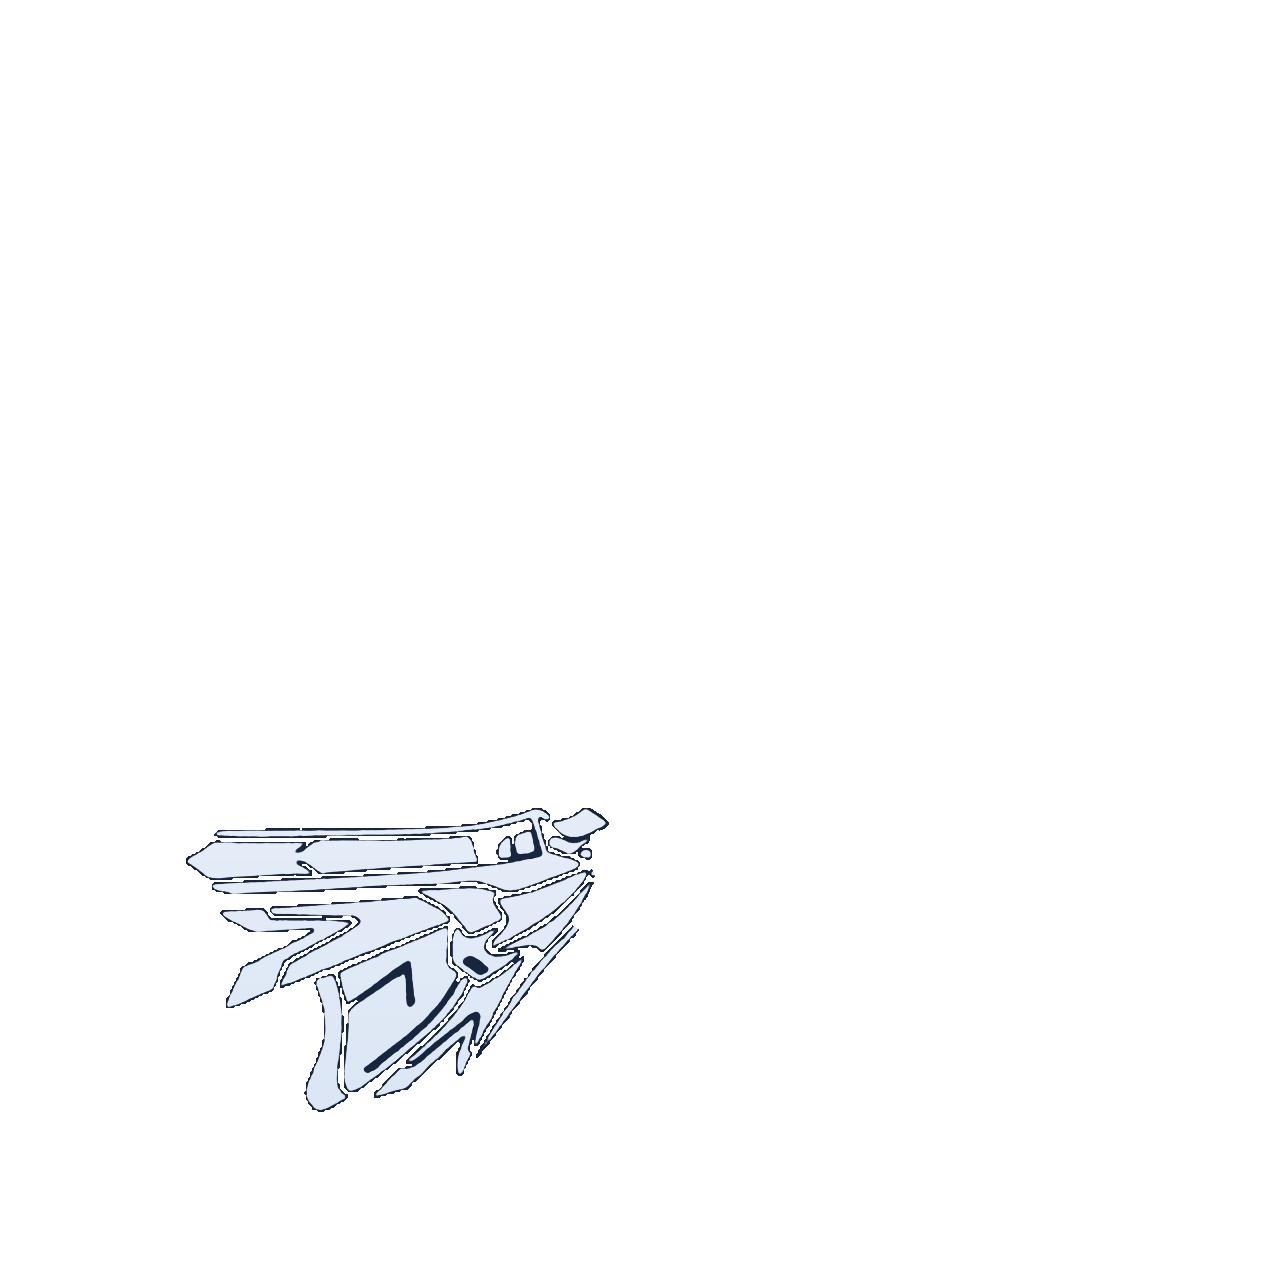
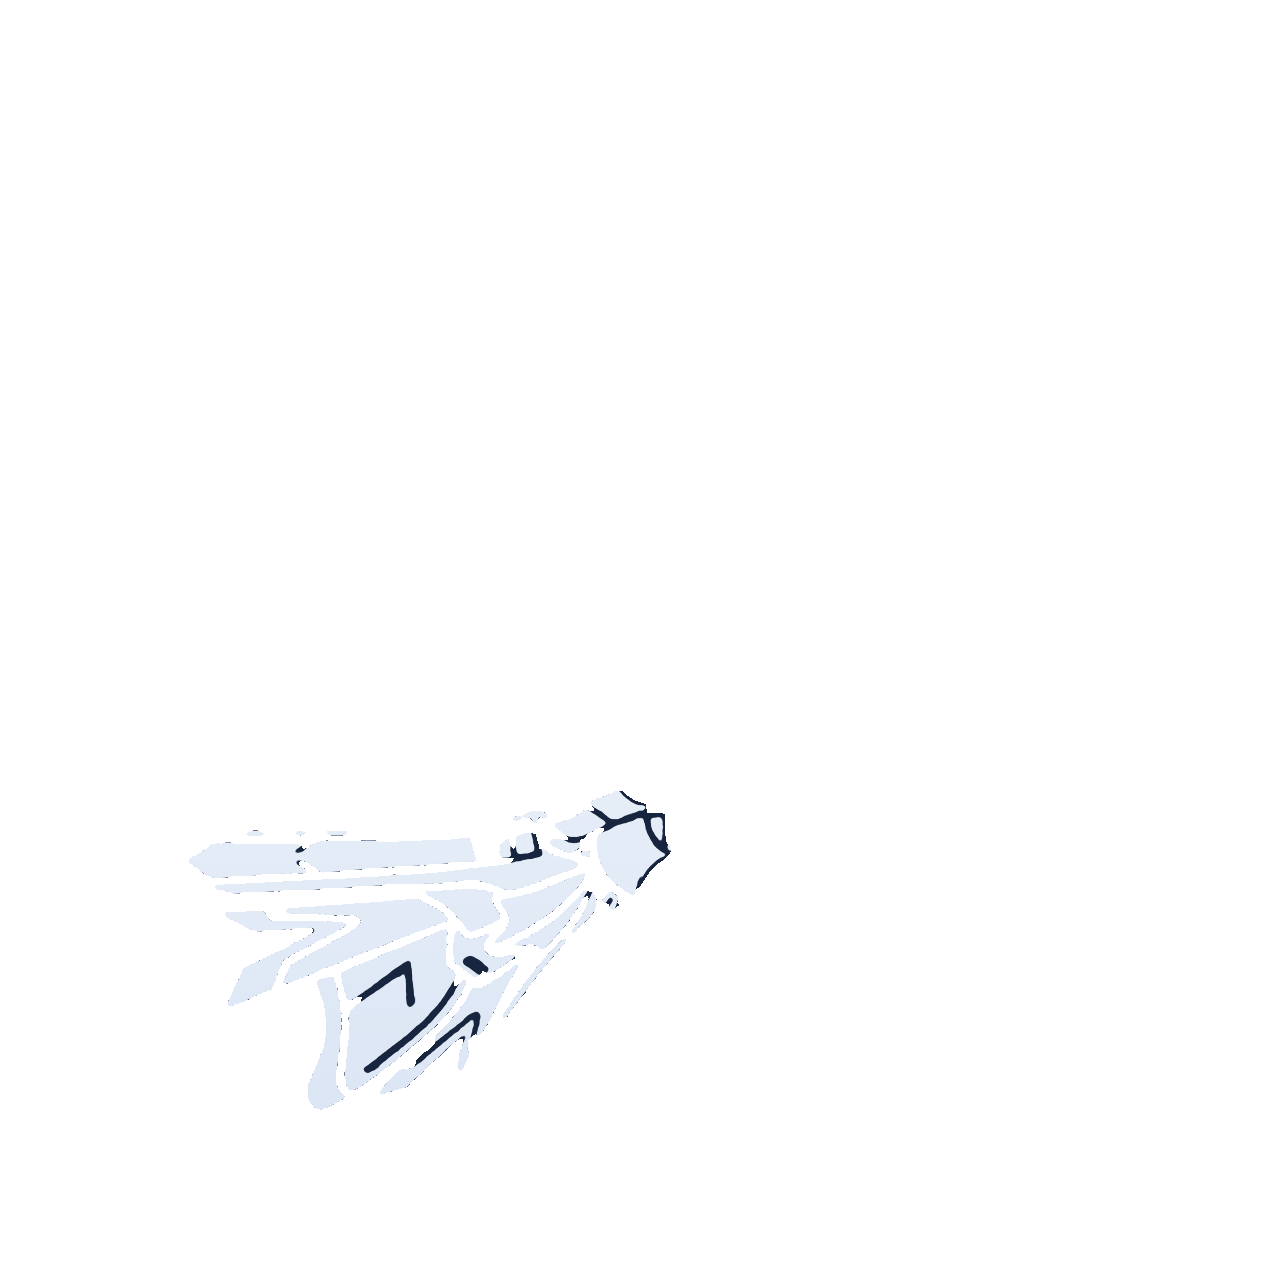
연구 페이지: 독수리 부위 재분할 + 호버 디밍 + 분야설명 자연화
- 부위 재분할(사용자 해부 지정): 머리=눈+부리+목만, 날개=깃털+아래 관절(동그란)부품 포함,
  6개 부위에 안 들어가던 조각(왼날개 깃털끝·어깨관절) 재배정 → 모든 플레이트가 6부위 중 하나에.
  재조립=원본 동일 검증. HTML 히트영역·화살표 좌표도 새 영역에 맞춤.
- 호버 시 나머지 부위 살짝 흐리게(dim-others) — 초점 집중.
- 6개 분야 desc/intro 재작성: '움직이는 모든 기계에는…' 식 거창한 도입부 제거, 실제 연구 내용 중심으로.

Changed region(s): [[0.1562, 0.5938, 0.5312, 0.875]]

diff --git a/design-candidates/assets/js/data.js b/design-candidates/assets/js/data.js
@@ -60,8 +60,8 @@ window.YSME = {
    "ko": "역학·소재",
    "en": "Mechanics & Materials",
    "count": 6,
-   "desc": "구조와 소재가 힘을 어떻게 견디고 변형하는지가 모든 기계 시스템의 안전과 성능을 좌우합니다.",
-   "intro": "구조와 소재가 힘을 어떻게 견디고 변형하는지가 모든 기계 시스템의 안전과 성능을 좌우합니다. 역학·소재 분야는 금속·복합재·연성재료의 거동을 전산 시뮬레이션과 정밀 실험으로 규명하고, 마찰과 마모(트라이볼로지), 파손, 마이크로 스케일의 응력을 함께 다룹니다. 이를 바탕으로 더 가볍고 튼튼하며 오래가는 부품과 구조를 설계합니다.",
+   "desc": "금속·복합재·연성재료가 힘을 받아 어떻게 변형하고 파손되는지 실험과 시뮬레이션으로 규명합니다.",
+   "intro": "역학·소재 분야는 금속·복합재·연성재료가 힘을 받을 때 어떻게 변형하고 파손되는지를 전산 시뮬레이션과 정밀 실험으로 규명합니다. 마찰과 마모(트라이볼로지), 파손, 마이크로 스케일의 응력까지 함께 다뤄, 더 가볍고 튼튼하며 오래가는 부품과 구조를 설계합니다.",
    "theme": "mechanics"
   },
   {
@@ -69,8 +69,8 @@ window.YSME = {
    "ko": "에너지·열유체",
    "en": "Energy / Thermal-Fluid Systems",
    "count": 7,
-   "desc": "에너지는 대부분 열과 유체의 흐름을 통해 만들어지고 전달됩니다.",
-   "intro": "에너지는 대부분 열과 유체의 흐름을 통해 만들어지고 전달됩니다. 에너지·열유체 분야는 난류와 미세유동의 물리를 전산유체역학(CFD)과 정밀 실험으로 해석하고, 연소·청정에너지, 열전달, 연료전지·수소·배터리 같은 에너지 변환 기술을 연구합니다. 자동차부터 발전, 친환경 모빌리티까지 에너지를 더 효율적으로 다루는 과제를 풉니다.",
+   "desc": "난류·미세유동과 연소·열전달을 해석해 연료전지·수소·배터리처럼 에너지를 다루는 기술을 연구합니다.",
+   "intro": "에너지·열유체 분야는 난류와 미세유동의 물리를 전산유체역학(CFD)과 정밀 실험으로 해석합니다. 연소·청정에너지, 열전달, 연료전지·수소·배터리 같은 에너지 변환 기술을 연구하며, 자동차부터 발전과 친환경 모빌리티까지 에너지를 더 효율적으로 다루는 과제를 풉니다.",
    "theme": "thermofluid"
   },
   {
@@ -78,8 +78,8 @@ window.YSME = {
    "ko": "로보틱스·제어",
    "en": "Robotics & Intelligent Control",
    "count": 4,
-   "desc": "움직이는 모든 기계에는 동역학과 이를 다스리는 제어가 있습니다.",
-   "intro": "움직이는 모든 기계에는 동역학과 이를 다스리는 제어가 있습니다. 로보틱스·제어 분야는 정밀 서보 제어와 광메카트로닉스, 인간 중심 로보틱스, 기계학습 기반 제어를 통해 기계가 스스로 감지하고 판단하며 정밀하게 움직이도록 만듭니다. 로봇, 자율 시스템, 초정밀 구동기, 진동·소음 제어가 핵심 주제입니다.",
+   "desc": "로봇과 자율 시스템이 스스로 감지하고 정밀하게 움직이도록 제어와 메카트로닉스를 연구합니다.",
+   "intro": "로보틱스·제어 분야는 정밀 서보 제어와 광메카트로닉스, 인간 중심 로보틱스, 기계학습 기반 제어를 연구합니다. 기계가 스스로 감지하고 판단하며 정밀하게 움직이도록 만드는 것이 목표로, 로봇과 자율 시스템, 초정밀 구동기, 진동·소음 제어가 핵심 주제입니다.",
    "theme": "control"
   },
   {
@@ -87,8 +87,8 @@ window.YSME = {
    "ko": "설계·제조",
    "en": "Design & Smart Manufacturing",
    "count": 6,
-   "desc": "좋은 아이디어를 실제 제품으로 바꾸는 것은 설계와 제조 기술의 몫입니다.",
-   "intro": "좋은 아이디어를 실제 제품으로 바꾸는 것은 설계와 제조 기술의 몫입니다. 설계·제조 분야는 전산 최적설계로 가장 효율적인 형상을 찾고, 극한·정밀 제조와 생산 메카트로닉스, 지능형 측정·공정으로 이를 정확하게 구현합니다. 반도체 장비, 전기차, 정밀 가공 등 첨단 제조 현장의 패러다임을 새롭게 만들어 갑니다.",
+   "desc": "전산 최적설계로 형상을 찾고 정밀·극한 가공으로 구현합니다. 반도체 장비·전기차 같은 첨단 제조를 다룹니다.",
+   "intro": "설계·제조 분야는 전산 최적설계로 가장 효율적인 형상을 찾고, 극한·정밀 제조와 생산 메카트로닉스, 지능형 측정·공정으로 이를 정확하게 구현합니다. 반도체 장비, 전기차, 정밀 가공 등 첨단 제조 현장의 기술을 연구합니다.",
    "theme": "design"
   },
   {
@@ -96,8 +96,8 @@ window.YSME = {
    "ko": "마이크로·나노",
    "en": "Micro / Nano Systems",
    "count": 5,
-   "desc": "기계공학의 정밀 제작 기술은 마이크로·나노 스케일로 확장되고 있습니다.",
-   "intro": "기계공학의 정밀 제작 기술은 마이크로·나노 스케일로 확장되고 있습니다. 마이크로·나노 분야는 MEMS와 박막·미세가공, 나노 소자·센서 기술로 눈에 보이지 않는 영역의 구조와 현상을 다룹니다. 초정밀 센서와 반도체, 차세대 소자의 토대가 되는 핵심 기술을 연구합니다.",
+   "desc": "MEMS와 박막·미세가공, 나노 소자·센서로 눈에 보이지 않는 스케일의 구조와 현상을 다룹니다.",
+   "intro": "마이크로·나노 분야는 MEMS와 박막·미세가공, 나노 소자·센서 기술로 눈에 보이지 않는 영역의 구조와 현상을 다룹니다. 초정밀 센서와 반도체, 차세대 소자의 토대가 되는 핵심 기술을 연구합니다.",
    "theme": "nano"
   },
   {
@@ -105,8 +105,8 @@ window.YSME = {
    "ko": "바이오·포토닉스",
    "en": "Bio & Photonics",
    "count": 5,
-   "desc": "기계공학의 정밀·계측 기술은 생명과 빛의 영역으로 확장됩니다.",
-   "intro": "기계공학의 정밀·계측 기술은 생명과 빛의 영역으로 확장됩니다. 바이오·포토닉스 분야는 광학·이미징과 분광, 바이오칩과 생체역학, 연성재료 기술을 결합해 질병의 조기 진단과 인체 건강에 기여하는 융합 기술을 연구합니다. 의료 광학과 바이오 센싱이 핵심 주제입니다.",
+   "desc": "광학·이미징과 바이오칩, 생체역학을 결합해 질병 진단과 의료 광학·바이오 센싱을 연구합니다.",
+   "intro": "바이오·포토닉스 분야는 광학·이미징과 분광, 바이오칩과 생체역학, 연성재료 기술을 결합합니다. 질병의 조기 진단과 인체 건강에 기여하는 융합 기술을 연구하며, 의료 광학과 바이오 센싱이 핵심 주제입니다.",
    "theme": "bio"
   }
  ],

diff --git a/design-candidates/G-research.html b/design-candidates/G-research.html
@@ -221,8 +221,11 @@ summary .i-badge::after{content:"▾";margin-left:.35rem;font-size:.85em}
 /* 6개 조각 PNG가 겹쳐 독수리를 이룸(서로 안 겹침·틈 없음). 하나 들어올리면 그 자리는 비어 배경이 드러남 */
 .epart{position:absolute;inset:0;width:100%;height:100%;object-fit:contain;pointer-events:none;z-index:1;
   transform:translate(0,0) scale(1);
-  transition:transform .55s var(--e,cubic-bezier(.16,1,.3,1)),filter .4s ease}
+  transition:transform .55s var(--e,cubic-bezier(.16,1,.3,1)),filter .4s ease,opacity .4s ease}
 .epart.on{z-index:2;transform:var(--lift) scale(1.04);filter:drop-shadow(0 7px 11px rgba(0,0,0,.18))}
+/* 한 부위에 호버하면 나머지 부위는 살짝 흐려져 초점이 모임 */
+.eagle-stage.dim-others .epart:not(.on){opacity:.34;filter:saturate(.55)}
+.eagle-stage.dim-others .elabel:not(.on){opacity:.5}
 /* 정지 히트영역 — 부위가 떠올라도 커서 아래 유지(깜빡임 방지) */
 .ehot{position:absolute;inset:0;background:transparent;cursor:pointer;z-index:3;
   -webkit-tap-highlight-color:transparent}
@@ -235,7 +238,7 @@ summary .i-badge::after{content:"▾";margin-left:.35rem;font-size:.85em}
 .elabel{position:absolute;z-index:4;transform:translate(-50%,-50%);
   min-width:8.2rem;max-width:12rem;background:var(--card,#fff);border:1px solid var(--line);
   border-left:3px solid var(--navy);border-radius:.3rem;padding:.5rem .7rem;text-align:left;cursor:pointer;
-  box-shadow:0 6px 18px rgba(15,27,48,.08);transition:box-shadow .3s var(--e,ease),transform .3s var(--e,ease),border-color .2s}
+  box-shadow:0 6px 18px rgba(15,27,48,.08);transition:box-shadow .3s var(--e,ease),transform .3s var(--e,ease),border-color .2s,opacity .35s ease}
 .elabel:hover,.elabel.on{box-shadow:0 16px 34px rgba(15,27,48,.18)}
 .elabel .en{font-family:var(--kr);font-size:.6rem;letter-spacing:.1em;text-transform:uppercase;color:var(--label,#8b96a9)}
 .elabel .ko{font-family:var(--kr);font-weight:800;font-size:.98rem;color:var(--navy);line-height:1.2;margin-top:.1rem}
@@ -497,9 +500,9 @@ summary .i-badge::after{content:"▾";margin-left:.35rem;font-size:.85em}
   var cById = {}; clusters.forEach(function(c){ cById[c.id]=c; });
   /* 부위↔분야 매핑. png=사전에 잘라낸 조각 이미지, hot=호버 히트영역 폴리곤(분할 폴리곤), cx/cy=부위중심(화살표), lift=떠오름 방향, lx/ly=라벨 위치. 좌표 0~100% */
   var PARTS = [
-    { cid:'thermal',       png:'lw',     hot:'polygon(43% 19%,33% 12%,16% 14%,4% 23%,2% 41%,14% 48%,27% 51%,38% 48%,45% 39%,48% 28%)', cx:24, cy:33, lift:'translate(-6%,-7%)', lx:16, ly:9,  part:'왼쪽 날개' },
-    { cid:'micro',         png:'rw',     hot:'polygon(78% 16%,99% 11%,99% 47%,80% 50%,72% 32%,74% 20%)',                                 cx:87, cy:29, lift:'translate(6%,-6%)',  lx:87, ly:9,  part:'오른쪽 날개' },
-    { cid:'dynamics',      png:'head',   hot:'polygon(66% 45%,80% 44%,85% 54%,85% 65%,80% 74%,70% 74%,64% 68%,63% 55%,65% 48%)', cx:75, cy:56, lift:'translate(7%,-4%)',  lx:93, ly:58, part:'머리' },
+    { cid:'thermal',       png:'lw',     hot:'polygon(45% 26%,43% 14%,31% 8%,10% 9%,2% 16%,2% 42%,13% 51%,26% 57%,40% 57%,44% 46%)', cx:23, cy:32, lift:'translate(-6%,-7%)', lx:16, ly:9,  part:'왼쪽 날개' },
+    { cid:'micro',         png:'rw',     hot:'polygon(71% 33%,69% 29%,74% 15%,99% 10%,99% 50%,88% 57%,80% 54%,78% 47%,74% 40%)', cx:87, cy:30, lift:'translate(6%,-6%)',  lx:87, ly:9,  part:'오른쪽 날개' },
+    { cid:'dynamics',      png:'head',   hot:'polygon(64% 50%,68% 44%,78% 44%,82% 52%,82% 66%,80% 71%,72% 72%,66% 70%,64% 60%)', cx:74, cy:56, lift:'translate(7%,-4%)',  lx:93, ly:58, part:'머리' },
     { cid:'solid',         png:'body',   hot:'polygon(35% 45%,66% 45%,71% 58%,66% 74%,46% 74%,40% 60%,33% 52%)',                         cx:49, cy:57, lift:'translate(-3%,-5%)', lx:8,  ly:52, part:'몸통' },
     { cid:'manufacturing', png:'tail',   hot:'polygon(50% 58%,30% 60%,12% 66%,18% 80%,30% 88%,46% 76%,52% 64%)',                         cx:29, cy:74, lift:'translate(-7%,7%)',  lx:15, ly:91, part:'꼬리' },
     { cid:'optics',        png:'talons', hot:'polygon(54% 70%,74% 69%,85% 79%,82% 95%,64% 98%,53% 86%)',                                 cx:68, cy:84, lift:'translate(4%,8%)',   lx:86, ly:92, part:'발톱' }
@@ -540,6 +543,7 @@ summary .i-badge::after{content:"▾";margin-left:.35rem;font-size:.85em}
       stage.appendChild(lab);
     });
     function setActive(cid){
+      stage.classList.toggle('dim-others', !!cid);
       [].forEach.call(stage.querySelectorAll('.epart,.elabel'), function(el){ el.classList.toggle('on', el.getAttribute('data-cid')===cid); });
       [].forEach.call(arrows.querySelectorAll('.earrow,.edot'), function(el){ el.classList.toggle('on', el.getAttribute('data-cid')===cid); });
     }
